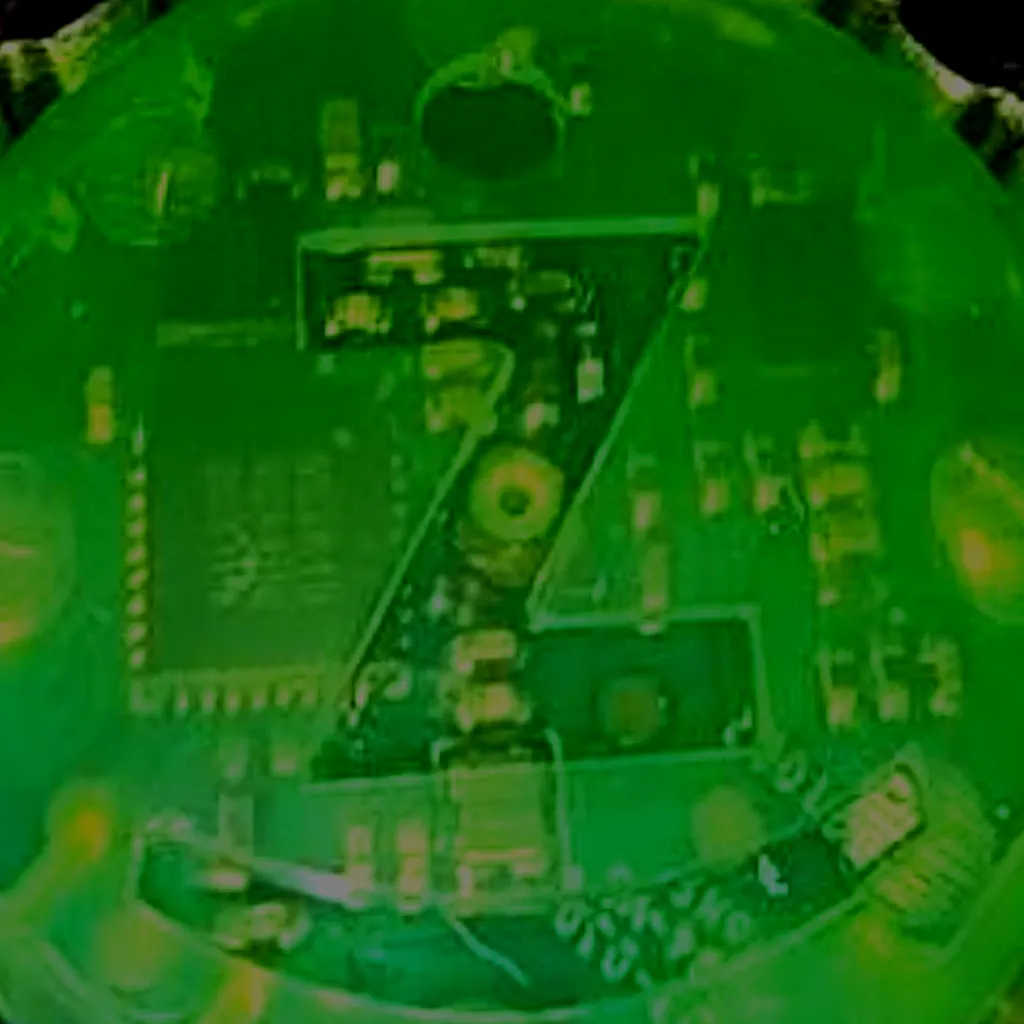
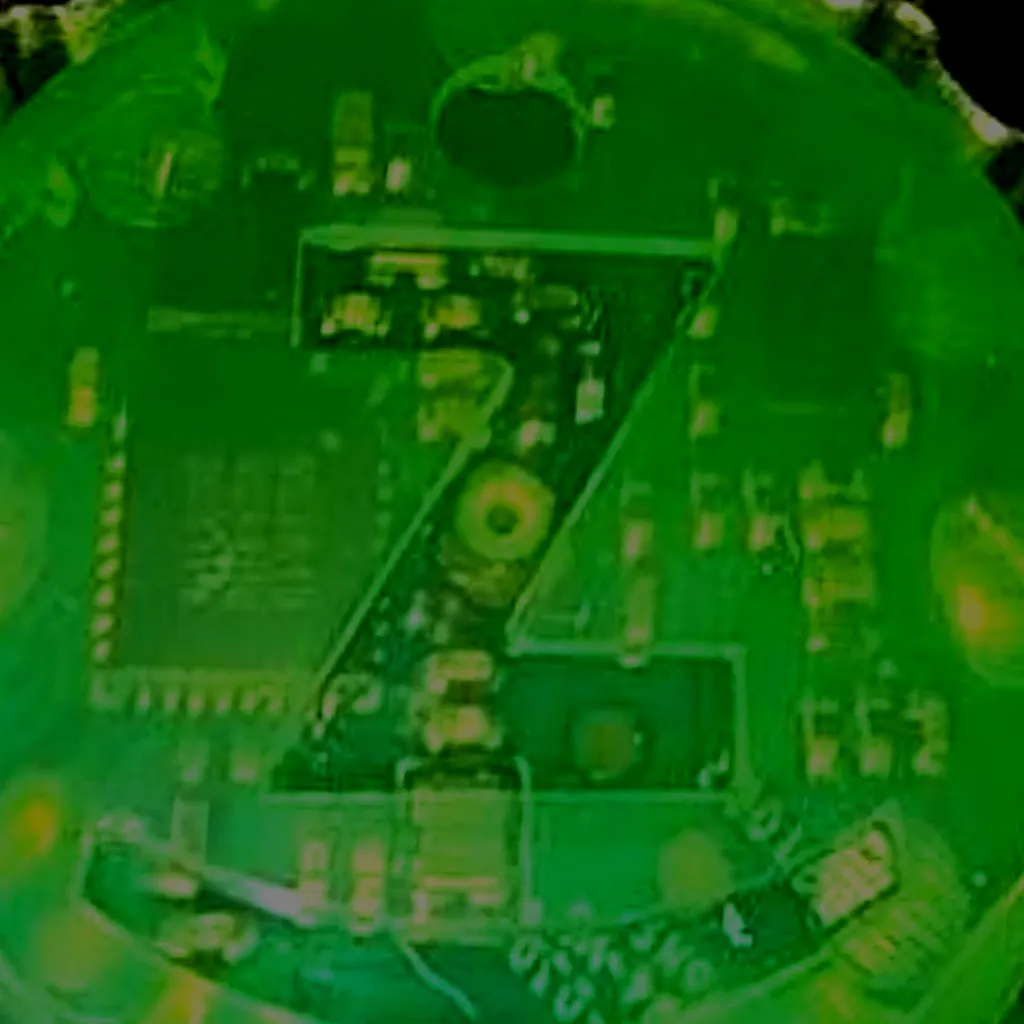
feat(card): yellow arrow at the dot edge, texts built around it, Z level on the texture
The model gets a yellow arrow outside the rim at the edge with the dot above
the Z. The note under the buttons, always shown, says what the arrow is, that
calibration is once per cap, and why the direction needs aligning now and then
(no compass: the gyro drifts and an HA restart loses it). Angles read left-right,
forward-back and turn about the axis. The resin texture is rotated so the Z's
bars are level and centred on it.

diff --git a/custom_components/triki/frontend/triki-card.js b/custom_components/triki/frontend/triki-card.js
@@ -24,10 +24,9 @@ const STRINGS = {
     auto: "Auto", asleep: "Asleep", dozing: "Dozing off",
     dozeHint: "Disconnected after idling. Put the cap down: once it has slept (up to ~3 min) a press wakes it again", connected: "Connected", streaming: "Live", unresponsive: "Not responding",
     wake: "Press or shake the cap to wake it", gyro: "Gyroscope, °/s", accel: "Accelerometer, g",
-    roll: "Tilt sideways", pitch: "Tilt forward", yaw: "Turn on table", reset: "Turn the model", led: "LED", calibrate: "Calibrate",
-    hint: { cal: "Fit the model to the cap", reset: "If it faces the wrong way", led: "On / off" },
-    help: { title: "When to calibrate?", front: "<b>Front</b> is the edge with the dot above the letter Z on the green side (circled).", turn: "<b>Turn on table</b> is where the cap faces when you spin it flat on the table, like a knob.", body: "<p>Calibration is saved in Home Assistant and does not reset. Do it once per cap, and again only if the cap lies flat but the model is tilted.</p><p>The turn is different: the cap has no compass, so the gyroscope tracks it and slowly drifts, faster after quick spins. After a Home Assistant restart the turn is lost. When the model faces the wrong way, lay the cap with the front away from you and press <b>Turn the model</b>: it is instant and keeps the calibration.</p>" },
-    cal: { find: "On the green side, find the dot above the letter Z (circled in the picture).", flat: "Lay the cap flat on the table, either side up, with that edge away from you, let go and press Done. The view then shows it edge-on.", heading: "Lay the cap on the table with that edge away from you and press Done: the model turns the same way.", turned: "Model turned", logo: "Now the logo (once per cap: it is crimped on at any angle). Lay the cap green side up with the Z upright, dot at the top, then turn it over across its right edge. Turn the logo below with the slider until it looks like the one on your cap.", resin: "Green side", metal: "After turning over", next: "Done", cancel: "Cancel", skip: "Skip", saved: "Calibrated",
+    roll: "Left-right", pitch: "Forward-back", yaw: "Turn about the axis", reset: "Align direction", led: "LED", calibrate: "Calibrate",
+    help: { mark: "The yellow arrow on the model marks the edge with the dot above the letter Z (circled in the photo). It shows which way the model is turned.", cal: "<b>Calibrate</b> once per cap. The cap lies on the table, dot away from you: the model learns what level looks like for this cap, then you match the logo. It is saved for good.", align: "<b>Align direction</b> is needed from time to time. The cap senses tilt by itself, from gravity, but not which way it is turned: it has no compass. The gyroscope counts the turn and slowly drifts, and a Home Assistant restart loses it. When the arrow on the model points elsewhere than the dot on the cap, lay the cap dot away from you and press this button. The calibration stays." },
+    cal: { find: "Find the dot above the letter Z on the green side (circled in the photo). On the model that edge has the yellow arrow.", flat: "Lay the cap on the table, either side up, with that edge away from you, let go and press Done.", heading: "Lay the cap on the table with that edge away from you and press Done: the arrow on the model turns away from you too.", turned: "Direction aligned", logo: "Now the logo (once per cap: it is crimped on at any angle). Lay the cap green side up with the Z upright, dot at the top, then turn it over across its right edge. Turn the logo below with the slider until it looks like the one on your cap.", resin: "Green side", metal: "After turning over", next: "Done", cancel: "Cancel", skip: "Skip", saved: "Calibrated",
       err: { moving: "It is moving: hold still for a second", not_flat: "It is not lying flat", asleep: "The cap is asleep: wake it first", no_data: "No data yet: wake the cap" } },
     button: "Button", rate: "Hz", history: "Last 10 s", nodevice: "No Triki token found",
     gestures: {
@@ -40,12 +39,11 @@ const STRINGS = {
     auto: "Авто", asleep: "Спит", dozing: "Засыпает",
     dozeHint: "Отключился по простою. Положи крышку: когда уснёт (до ~3 мин), нажатие снова её разбудит", connected: "Подключён", streaming: "Онлайн", unresponsive: "Не отвечает",
     wake: "Нажми или встряхни крышку, чтобы разбудить", gyro: "Гироскоп, °/с",
-    accel: "Акселерометр, g", roll: "Наклон вбок", pitch: "Наклон вперёд", yaw: "Поворот на столе", calibrate: "Калибровка",
-    hint: { cal: "Подогнать модель под крышку", reset: "Если смотрит не туда", led: "Вкл. / выкл." },
-    help: { title: "Когда калибровать?", front: "<b>Перед</b> — край с точкой над буквой Z на зелёной стороне (обведена).", turn: "<b>Поворот на столе</b> — куда смотрит крышка, если крутить её на столе, как ручку.", body: "<p>Калибровка хранится в Home Assistant и сама не сбрасывается. Пройди её один раз для каждой крышки и повтори, только если крышка лежит ровно, а модель наклонена.</p><p>С поворотом на столе иначе: компаса в крышке нет, его считает гироскоп и понемногу ошибается, быстрее после резких вращений. После перезапуска Home Assistant поворот теряется. Если модель смотрит не туда, положи крышку передом от себя и нажми <b>Развернуть модель</b>: это мгновенно и калибровку не трогает.</p>" },
-    cal: { find: "Найди на зелёной стороне точку над буквой Z (на картинке обведена).", flat: "Положи крышку на стол любой стороной вверх, этим краем от себя, отпусти и нажми «Готово». Модель ляжет ровно, будет видно только ребро.", heading: "Положи крышку на стол этим краем от себя и нажми «Готово»: модель развернётся так же.", turned: "Модель развёрнута", logo: "Теперь логотип (один раз для каждой крышки: металл обжат под любым углом). Положи крышку зелёной стороной вверх, буквой Z ровно, точкой сверху, и переверни через правый край. Поверни логотип ползунком, чтобы он выглядел как на крышке.", resin: "Зелёная сторона", metal: "После переворота", next: "Готово", cancel: "Отмена", skip: "Пропустить", saved: "Откалибровано",
+    accel: "Акселерометр, g", roll: "Влево-вправо", pitch: "Вперёд-назад", yaw: "Поворот вокруг оси", calibrate: "Калибровка",
+    help: { mark: "Жёлтая стрелка на модели показывает край с точкой над буквой Z (на фото обведена). По ней видно, куда повёрнута модель.", cal: "<b>Калибровка</b> — один раз для каждой крышки. Крышка лежит на столе точкой от тебя: модель запоминает, как для этой крышки выглядит «ровно», потом подгоняешь логотип. Сохраняется навсегда.", align: "<b>Выровнять направление</b> — нужно время от времени. Наклон крышка чувствует сама, по силе тяжести, а в какую сторону повёрнута — нет: компаса в ней нет. Поворот считает гироскоп, он понемногу ошибается, а после перезапуска Home Assistant поворот теряется. Если стрелка на модели смотрит не туда, куда точка на крышке, положи крышку точкой от себя и нажми эту кнопку. Калибровку это не трогает." },
+    cal: { find: "Найди на зелёной стороне точку над буквой Z (на фото обведена). На модели этот край отмечен жёлтой стрелкой.", flat: "Положи крышку на стол любой стороной вверх так, чтобы этот край был от тебя, отпусти и нажми «Готово».", heading: "Положи крышку на стол этим краем от себя и нажми «Готово»: стрелка на модели тоже повернётся от тебя.", turned: "Направление выровнено", logo: "Теперь логотип (один раз для каждой крышки: металл обжат под любым углом). Положи крышку зелёной стороной вверх, буквой Z ровно, точкой сверху, и переверни через правый край. Поверни логотип ползунком, чтобы он выглядел как на крышке.", resin: "Зелёная сторона", metal: "После переворота", next: "Готово", cancel: "Отмена", skip: "Пропустить", saved: "Откалибровано",
       err: { moving: "Крышка двигается: подержи секунду неподвижно", not_flat: "Крышка лежит не ровно", asleep: "Крышка спит: сначала разбуди её", no_data: "Нет данных: разбуди крышку" } },
-    reset: "Развернуть модель",
+    reset: "Выровнять направление",
     led: "Диод", button: "Кнопка", rate: "Гц", history: "Последние 10 с",
     nodevice: "Трики не найден",
     gestures: {
@@ -59,13 +57,12 @@ const STRINGS = {
     auto: "Auto", asleep: "Śpi", dozing: "Zasypia",
     dozeHint: "Rozłączony po bezczynności. Odłóż kapsel: gdy zaśnie (do ~3 min), naciśnięcie znów go obudzi", connected: "Połączony", streaming: "Na żywo", unresponsive: "Nie odpowiada",
     wake: "Naciśnij lub potrząśnij kapslem, żeby go obudzić", gyro: "Żyroskop, °/s",
-    accel: "Akcelerometr, g", roll: "Przechył w bok", pitch: "Pochylenie", yaw: "Obrót na stole",
-    hint: { cal: "Dopasuj model do kapsla", reset: "Gdy patrzy w złą stronę", led: "Wł. / wył." },
-    help: { title: "Kiedy kalibrować?", front: "<b>Przód</b> to krawędź z kropką nad literą Z po zielonej stronie (zakreśloną).", turn: "<b>Obrót na stole</b> to kierunek, w który patrzy kapsel, gdy kręcisz nim na stole jak pokrętłem.", body: "<p>Kalibracja jest zapisana w Home Assistant i sama się nie kasuje. Zrób ją raz na kapsel i powtórz tylko wtedy, gdy kapsel leży płasko, a model jest przechylony.</p><p>Z obrotem jest inaczej: kapsel nie ma kompasu, obrót liczy żyroskop i powoli się myli, szybciej po gwałtownym kręceniu. Po restarcie Home Assistant obrót się gubi. Gdy model patrzy w złą stronę, połóż kapsel przodem od siebie i naciśnij <b>Obróć model</b>: to natychmiastowe i nie rusza kalibracji.</p>" },
+    accel: "Akcelerometr, g", roll: "Lewo-prawo", pitch: "Przód-tył", yaw: "Obrót wokół osi",
+    help: { mark: "Żółta strzałka na modelu wskazuje krawędź z kropką nad literą Z (zakreśloną na zdjęciu). Po niej widać, w którą stronę model jest obrócony.", cal: "<b>Kalibracja</b> raz na kapsel. Kapsel leży na stole kropką od ciebie: model zapamiętuje, jak dla tego kapsla wygląda „płasko”, potem dopasowujesz logo. Zapisuje się na stałe.", align: "<b>Wyrównaj kierunek</b> trzeba od czasu do czasu. Przechył kapsel czuje sam, z grawitacji, ale nie wie, w którą stronę jest obrócony: nie ma kompasu. Obrót liczy żyroskop, który powoli się myli, a restart Home Assistant go gubi. Gdy strzałka na modelu wskazuje inaczej niż kropka na kapslu, połóż kapsel kropką od siebie i naciśnij ten przycisk. Kalibracja zostaje." },
     calibrate: "Kalibracja",
-    cal: { find: "Znajdź po zielonej stronie kropkę nad literą Z (zakreśloną na obrazku).", flat: "Połóż kapsel płasko na stole, dowolną stroną do góry, tą krawędzią od siebie, puść i naciśnij Gotowe. Widok pokaże go wtedy z boku.", heading: "Połóż kapsel na stole tą krawędzią od siebie i naciśnij Gotowe: model obróci się tak samo.", turned: "Model obrócony", logo: "Teraz logo (raz na kapsel: metal jest zaciśnięty pod dowolnym kątem). Połóż kapsel zieloną stroną do góry, literą Z prosto, kropką u góry, i odwróć go przez prawą krawędź. Obróć logo suwakiem, aż będzie wyglądać jak na kapslu.", resin: "Zielona strona", metal: "Po odwróceniu", next: "Gotowe", cancel: "Anuluj", skip: "Pomiń", saved: "Skalibrowano",
+    cal: { find: "Znajdź po zielonej stronie kropkę nad literą Z (zakreśloną na zdjęciu). Na modelu ta krawędź ma żółtą strzałkę.", flat: "Połóż kapsel na stole dowolną stroną do góry tak, żeby ta krawędź była od ciebie, puść i naciśnij Gotowe.", heading: "Połóż kapsel na stole tą krawędzią od siebie i naciśnij Gotowe: strzałka na modelu też obróci się od ciebie.", turned: "Kierunek wyrównany", logo: "Teraz logo (raz na kapsel: metal jest zaciśnięty pod dowolnym kątem). Połóż kapsel zieloną stroną do góry, literą Z prosto, kropką u góry, i odwróć go przez prawą krawędź. Obróć logo suwakiem, aż będzie wyglądać jak na kapslu.", resin: "Zielona strona", metal: "Po odwróceniu", next: "Gotowe", cancel: "Anuluj", skip: "Pomiń", saved: "Skalibrowano",
       err: { moving: "Kapsel się rusza: przytrzymaj chwilę nieruchomo", not_flat: "Kapsel nie leży płasko", asleep: "Kapsel śpi: najpierw go obudź", no_data: "Brak danych: obudź kapsel" } },
-    reset: "Obróć model", led: "Dioda", button: "Przycisk", rate: "Hz", history: "Ostatnie 10 s",
+    reset: "Wyrównaj kierunek", led: "Dioda", button: "Przycisk", rate: "Hz", history: "Ostatnie 10 s",
     nodevice: "Nie znaleziono kapsla Triki",
     gestures: {
       single_press: "Naciśnięcie", double_press: "Podwójne naciśnięcie",
@@ -167,16 +164,13 @@ const CSS = `
   .actions .lbl { display: flex; flex-direction: column; align-items: center; line-height: 1.2; text-align: center; }
   .actions .lbl small { font-size: .74em; font-weight: 400; color: var(--secondary-text-color); }
   .help { padding: 0 16px 14px; font-size: .88em; color: var(--secondary-text-color); }
-  .help summary { cursor: pointer; display: inline-flex; align-items: center; gap: 6px; list-style: none; color: var(--primary-color); }
-  .help summary::-webkit-details-marker { display: none; }
-  .help summary ha-icon { --mdc-icon-size: 18px; }
   .help p { margin: 8px 0 0; line-height: 1.4; }
   .help b { color: var(--primary-text-color); font-weight: 500; }
-  .help .front { display: flex; gap: 12px; align-items: center; margin-top: 8px; }
+  .help .front { display: flex; gap: 12px; align-items: center; margin-top: 2px; }
   .help .front p { margin: 0 0 4px; }
   .pic { position: relative; flex: none; width: 64px; height: 64px; }
   .pic img { width: 100%; height: 100%; border-radius: 50%; }
-  .pic i { position: absolute; left: 50%; top: 8%; width: 14px; height: 14px; margin: -7px 0 0 -7px;
+  .pic i { position: absolute; left: 50%; top: 9%; width: 14px; height: 14px; margin: -7px 0 0 -7px;
     border: 2px solid #ffd54f; border-radius: 50%; box-shadow: 0 0 6px #ffd54f; }
   .wizard { position: absolute; inset: 0; display: none; flex-direction: column; align-items: center;
     justify-content: center; gap: 10px; padding: 16px; text-align: center;
@@ -297,11 +291,11 @@ class TrikiCard extends HTMLElement {
         ${c.show_values ? `<div class="values"><div><h4>${t.gyro}</h4>${axisRows("g")}</div><div><h4>${t.accel}</h4>${axisRows("a")}</div></div>` : ""}
         ${c.show_history ? `<div class="chart"><small>${t.gyro} · ${t.history}</small><canvas class="hist" id="hist"></canvas></div>` : ""}
         <div class="actions">
-          <button id="cal" disabled><ha-icon icon="mdi:target"></ha-icon><span class="lbl">${t.calibrate}<small>${t.hint.cal}</small></span></button>
-          <button id="reset" disabled><ha-icon icon="mdi:compass-outline"></ha-icon><span class="lbl">${t.reset}<small>${t.hint.reset}</small></span></button>
-          <button id="led" disabled><ha-icon icon="mdi:led-on"></ha-icon><span class="lbl">${t.led}<small>${t.hint.led}</small></span></button>
+          <button id="cal" disabled><ha-icon icon="mdi:target"></ha-icon><span class="lbl">${t.calibrate}</span></button>
+          <button id="reset" disabled><ha-icon icon="mdi:compass-outline"></ha-icon><span class="lbl">${t.reset}</span></button>
+          <button id="led" disabled><ha-icon icon="mdi:led-on"></ha-icon><span class="lbl">${t.led}</span></button>
         </div>
-        <details class="help"><summary><ha-icon icon="mdi:help-circle-outline"></ha-icon>${t.help.title}</summary><div class="front"><span class="pic"><img src="${asset("tex_resin.webp")}" alt=""><i></i></span><div><p>${t.help.front}</p><p>${t.help.turn}</p></div></div>${t.help.body}</details>
+        <div class="help"><div class="front"><span class="pic"><img src="${asset("tex_resin.webp")}" alt=""><i></i></span><p>${t.help.mark}</p></div><p>${t.help.cal}</p><p>${t.help.align}</p></div>
         </div>
         </div>
       </ha-card>`;

diff --git a/custom_components/triki/frontend/triki-cap.js b/custom_components/triki/frontend/triki-cap.js
@@ -134,6 +134,16 @@ export async function buildCap(T, urls) {
   glow.position.z = RESIN_Z + 4;
   inner.add(glow);
 
+  // A yellow arrow outside the rim at the edge with the dot above the Z (sensor -y): the
+  // card's texts call it the arrow, so the owner can compare where the model and the cap face.
+  const arrow = new T.Mesh(
+    new T.CylinderGeometry(0, 3.0, 7.0, 24), // a cone; the bundle has no ConeGeometry
+    new T.MeshStandardMaterial({ color: 0x000000, emissive: 0xffd54f, emissiveIntensity: 1, toneMapped: false }),
+  );
+  arrow.rotation.z = Math.PI; // the cone's tip points +y; turn it to -y, outwards
+  arrow.position.set(0, -(R_SHOULDER + FLUTE_DEPTH + 4.6), H / 2);
+  inner.add(arrow);
+
   return {
     group,
     setLed(on) {

diff --git a/docs/live-card.md b/docs/live-card.md
@@ -51,7 +51,7 @@ while the button is held. `model: glb` uses Flopsstuff's textured model.
   detector learns while the token lies still. Tilt is held to gravity; the
   accelerometer is ignored while it reads far from 1 g (a swing or a tap).
 - **Heading drifts.** There is no compass, so yaw is only the integrated gyro.
-  **Turn the model** on the card opens a step with a picture of the green side, the dot above the Z circled: lay the cap with that edge away and press Done. A
+  **Align direction** on the card opens a step with a picture of the green side, the dot above the Z circled: lay the cap with that edge away and press Done. A
   dozing token keeps its heading over the reconnect; a Home Assistant restart
   loses it. The calibration itself is stored and never resets; the card's
   "When to calibrate?" note says this in the owner's language. The angles are
